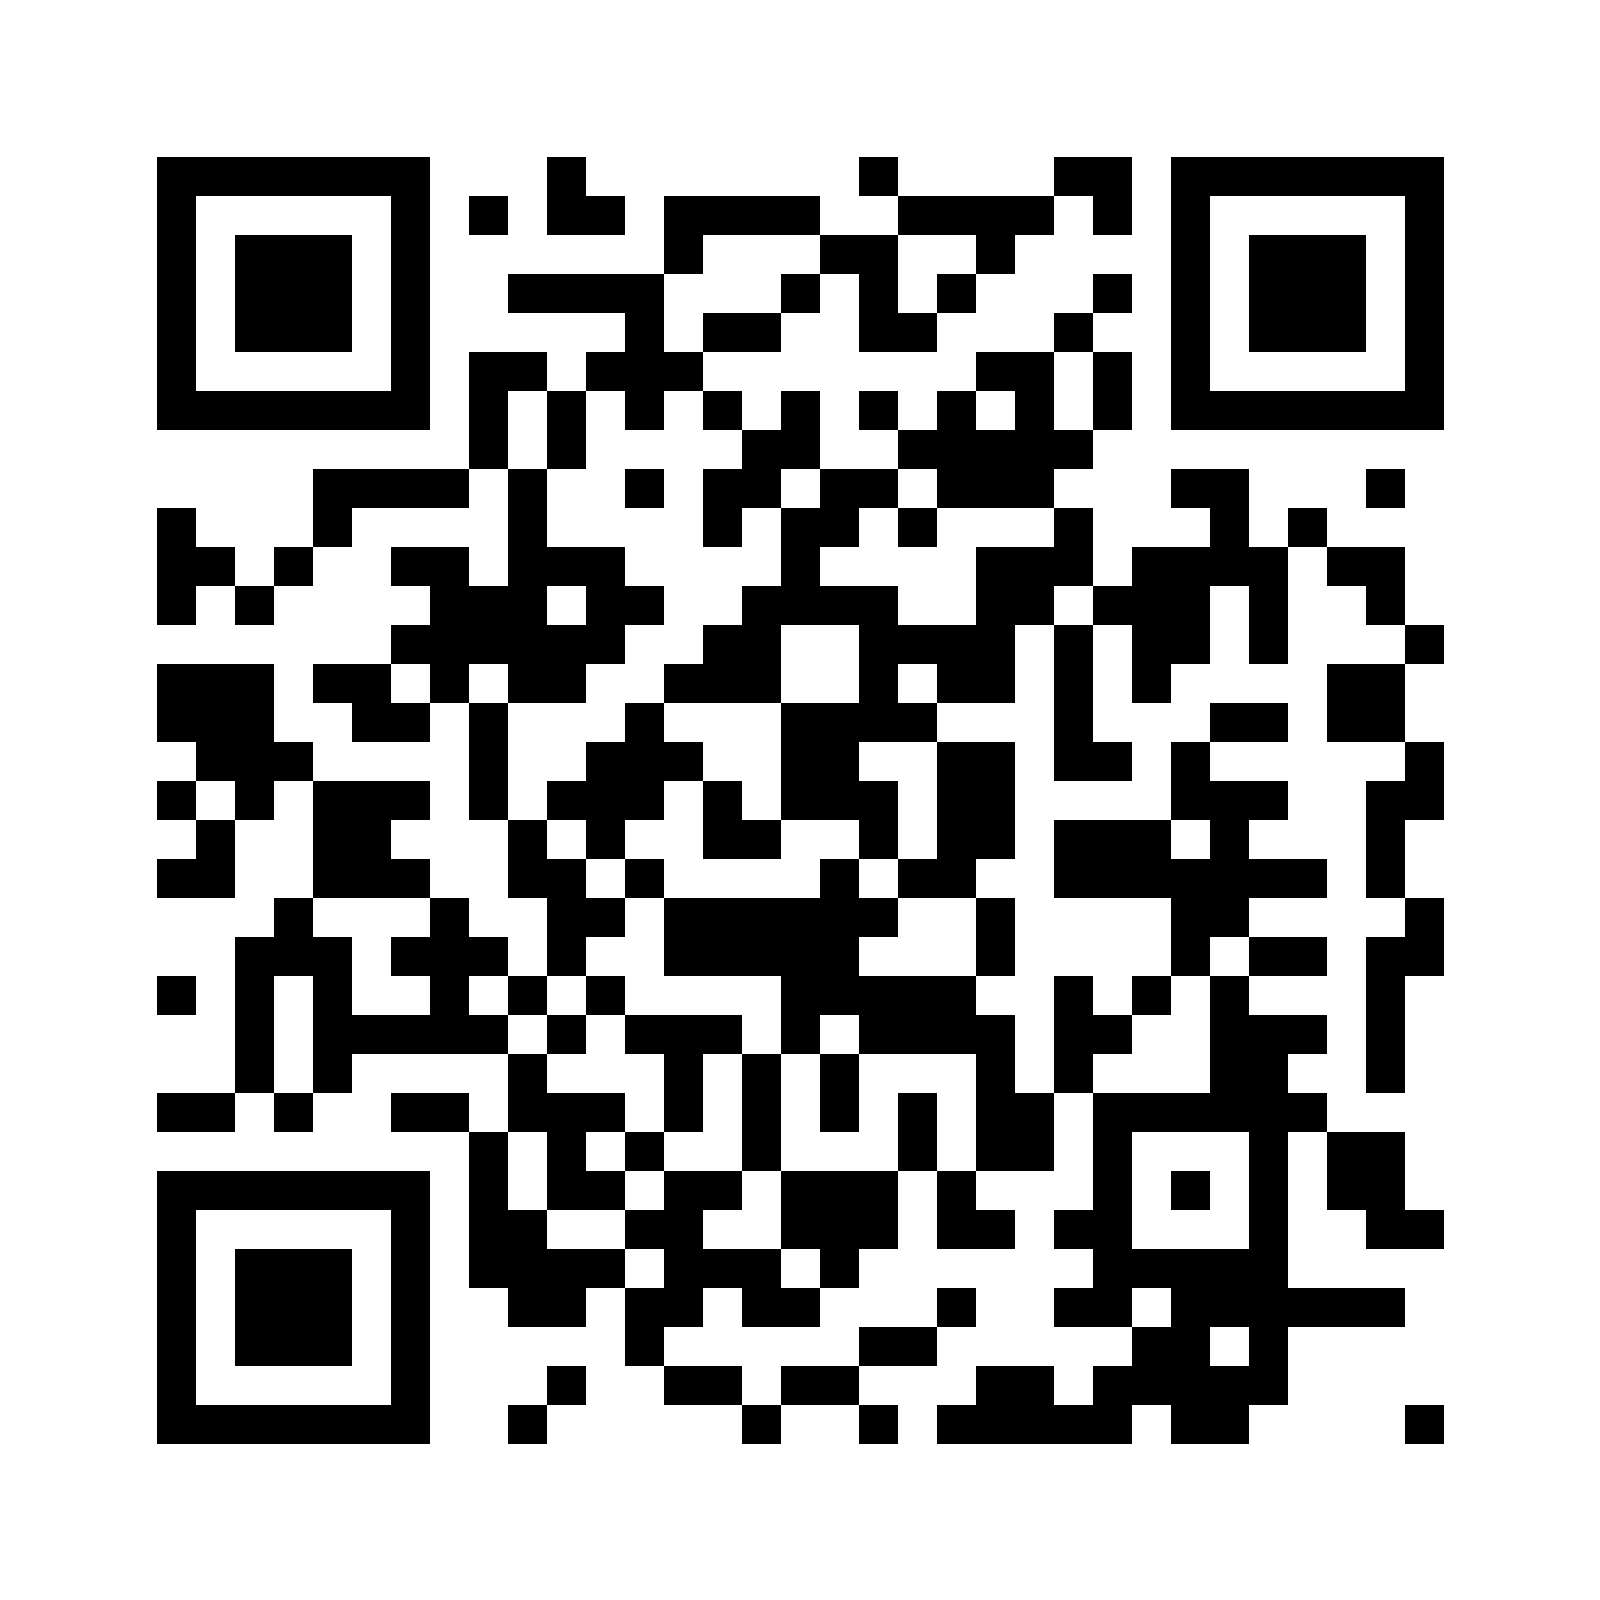
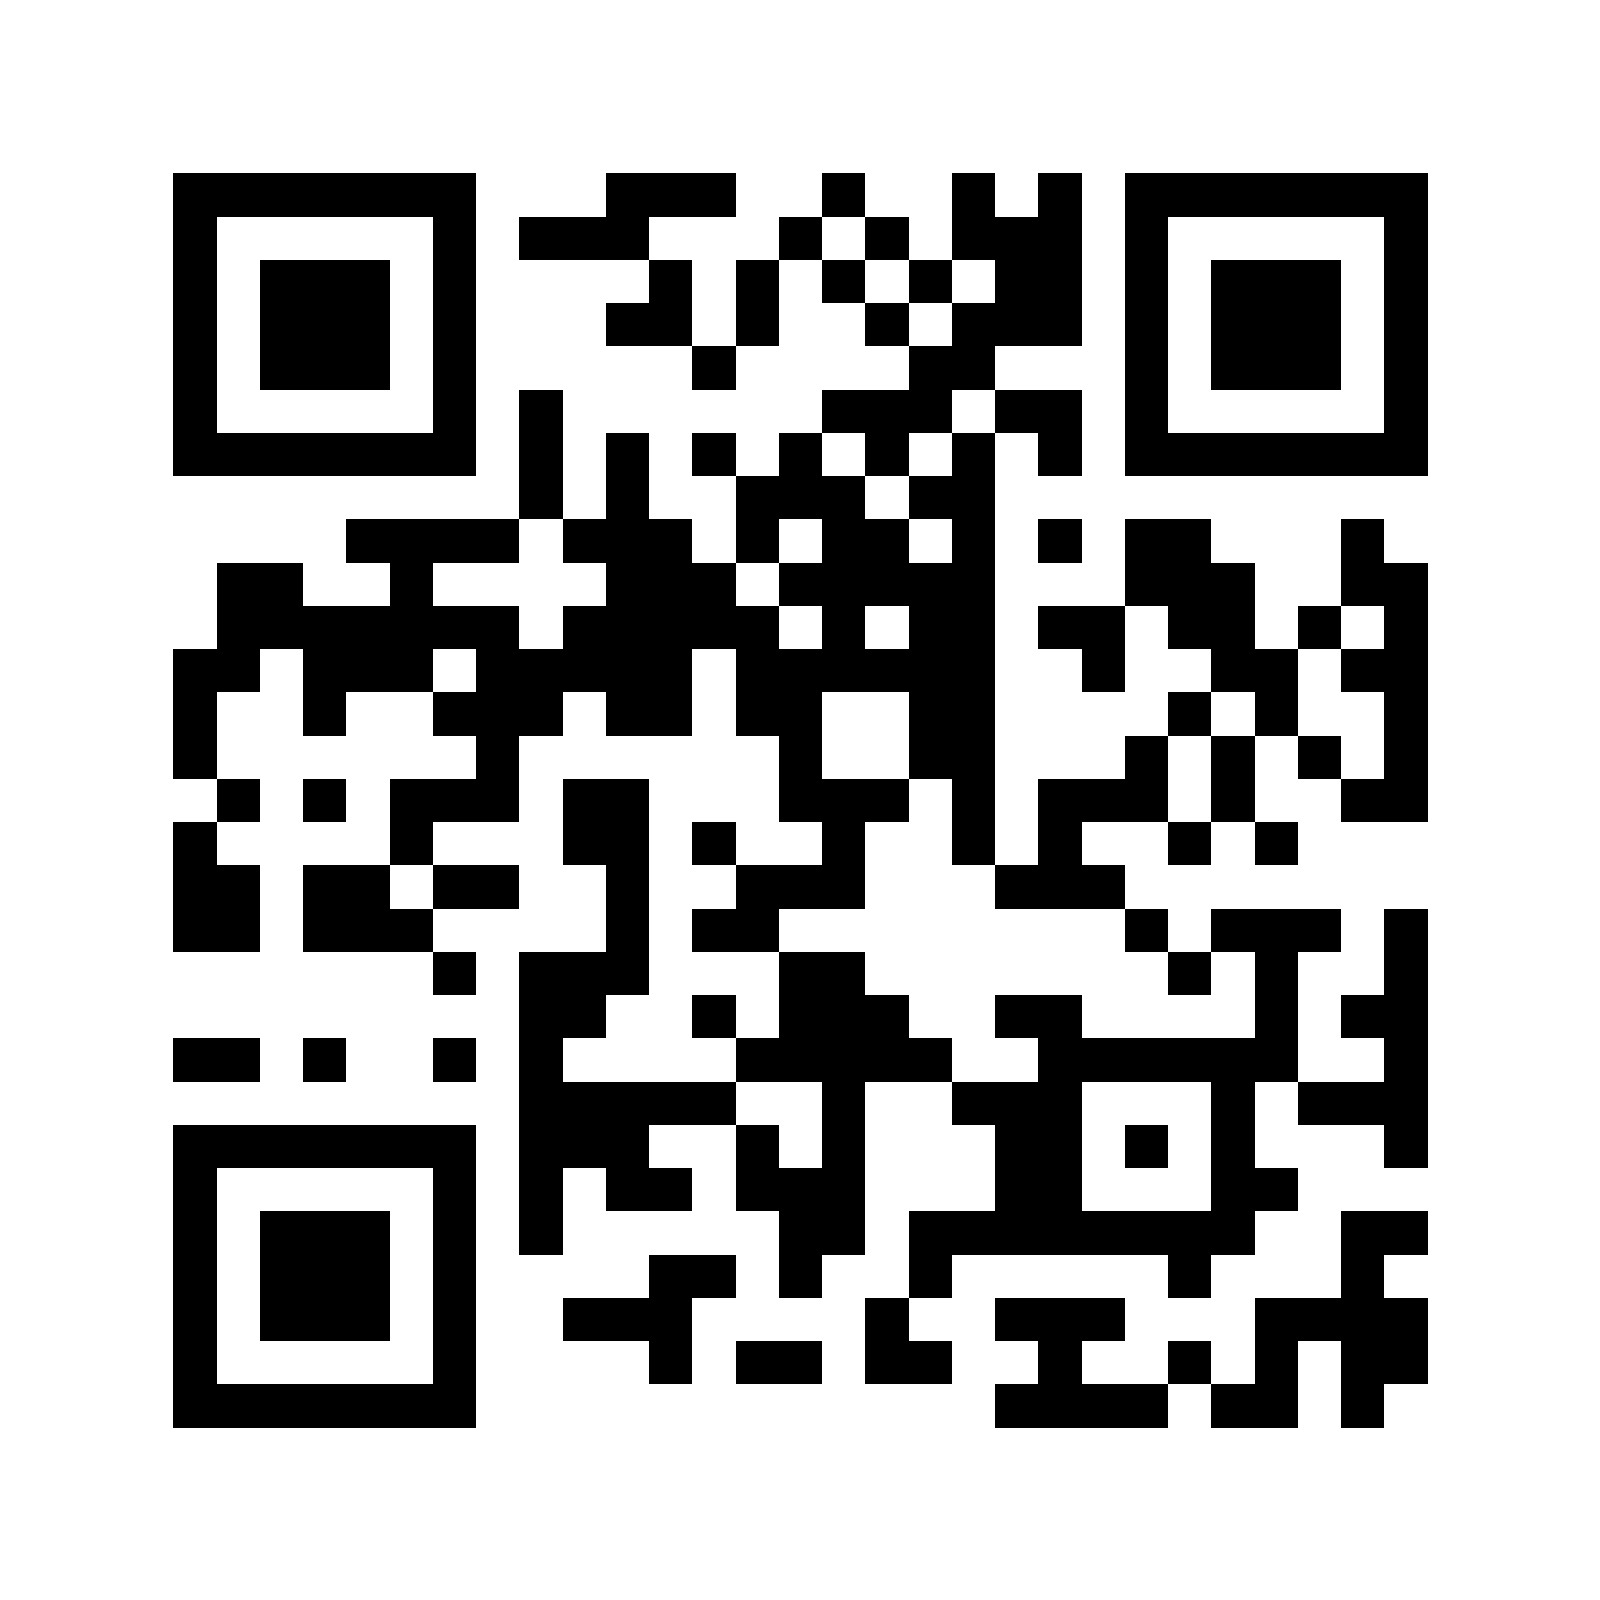
QR codes for expos.aod.co.in
The page's QR code and the per-expo ones (FIRSST 2026, IIF 2026) now point straight at
https://expos.aod.co.in instead of the vercel.app address, which still works for codes already
printed. README and the domain guide say so.

diff --git a/README.md b/README.md
@@ -82,7 +82,7 @@ Then open http://localhost:3001. Nothing to install: `scripts/serve.mjs` is a ti
 
 ## The live page and its QR code
 
-The page is live at **https://expo-two-ochre.vercel.app/** (Vercel, from this repo). `qr/expo-page-qr.png` (1600×1600, for printing) and `qr/expo-page-qr.svg` (sharp at any size, for standees and banners) are QR codes of that address, with high error correction so they still scan when printed small or partly covered. If the address changes (for example to expo.aod.co.in), make new ones:
+The page is live at **https://expos.aod.co.in/** (Vercel, from this repo; the first address, https://expo-two-ochre.vercel.app/, still opens it). `qr/expo-page-qr.png` (1600×1600, for printing) and `qr/expo-page-qr.svg` (sharp at any size, for standees and banners) are QR codes of that address (the per-expo ones, `qr/firsst-2026-qr.*` and `qr/iif-2026-qr.*`, add `?expo=<id>`), with high error correction so they still scan when printed small or partly covered. If the address changes again, make new ones:
 
 ```bash
 npx -y qrcode@1.5.4 -e H -w 1600 -m 4 -o qr/expo-page-qr.png "https://NEW-ADDRESS/"

diff --git a/domain-guide.md b/domain-guide.md
@@ -63,7 +63,7 @@ Open **https://expos.aod.co.in** on a phone and a laptop:
 
 ## 5. After it works
 
-- **New QR codes.** The QR codes in `qr/` point to expo-two-ochre.vercel.app. Make new ones for expos.aod.co.in before printing (the commands are in `README.md`, under "The live page and its QR code"), or ask for them. The old ones keep working as long as the vercel.app address does.
+- **New QR codes: done** (23 Oct 2026). The QR codes in `qr/` point straight at expos.aod.co.in. Old printed ones (expo-two-ochre.vercel.app) keep working as long as that address does.
 - **Old link and old QR codes:** send them to the new address (step 6).
 - **Optional:** link the page from aod.co.in, for example in the footer or the More menu.
 
